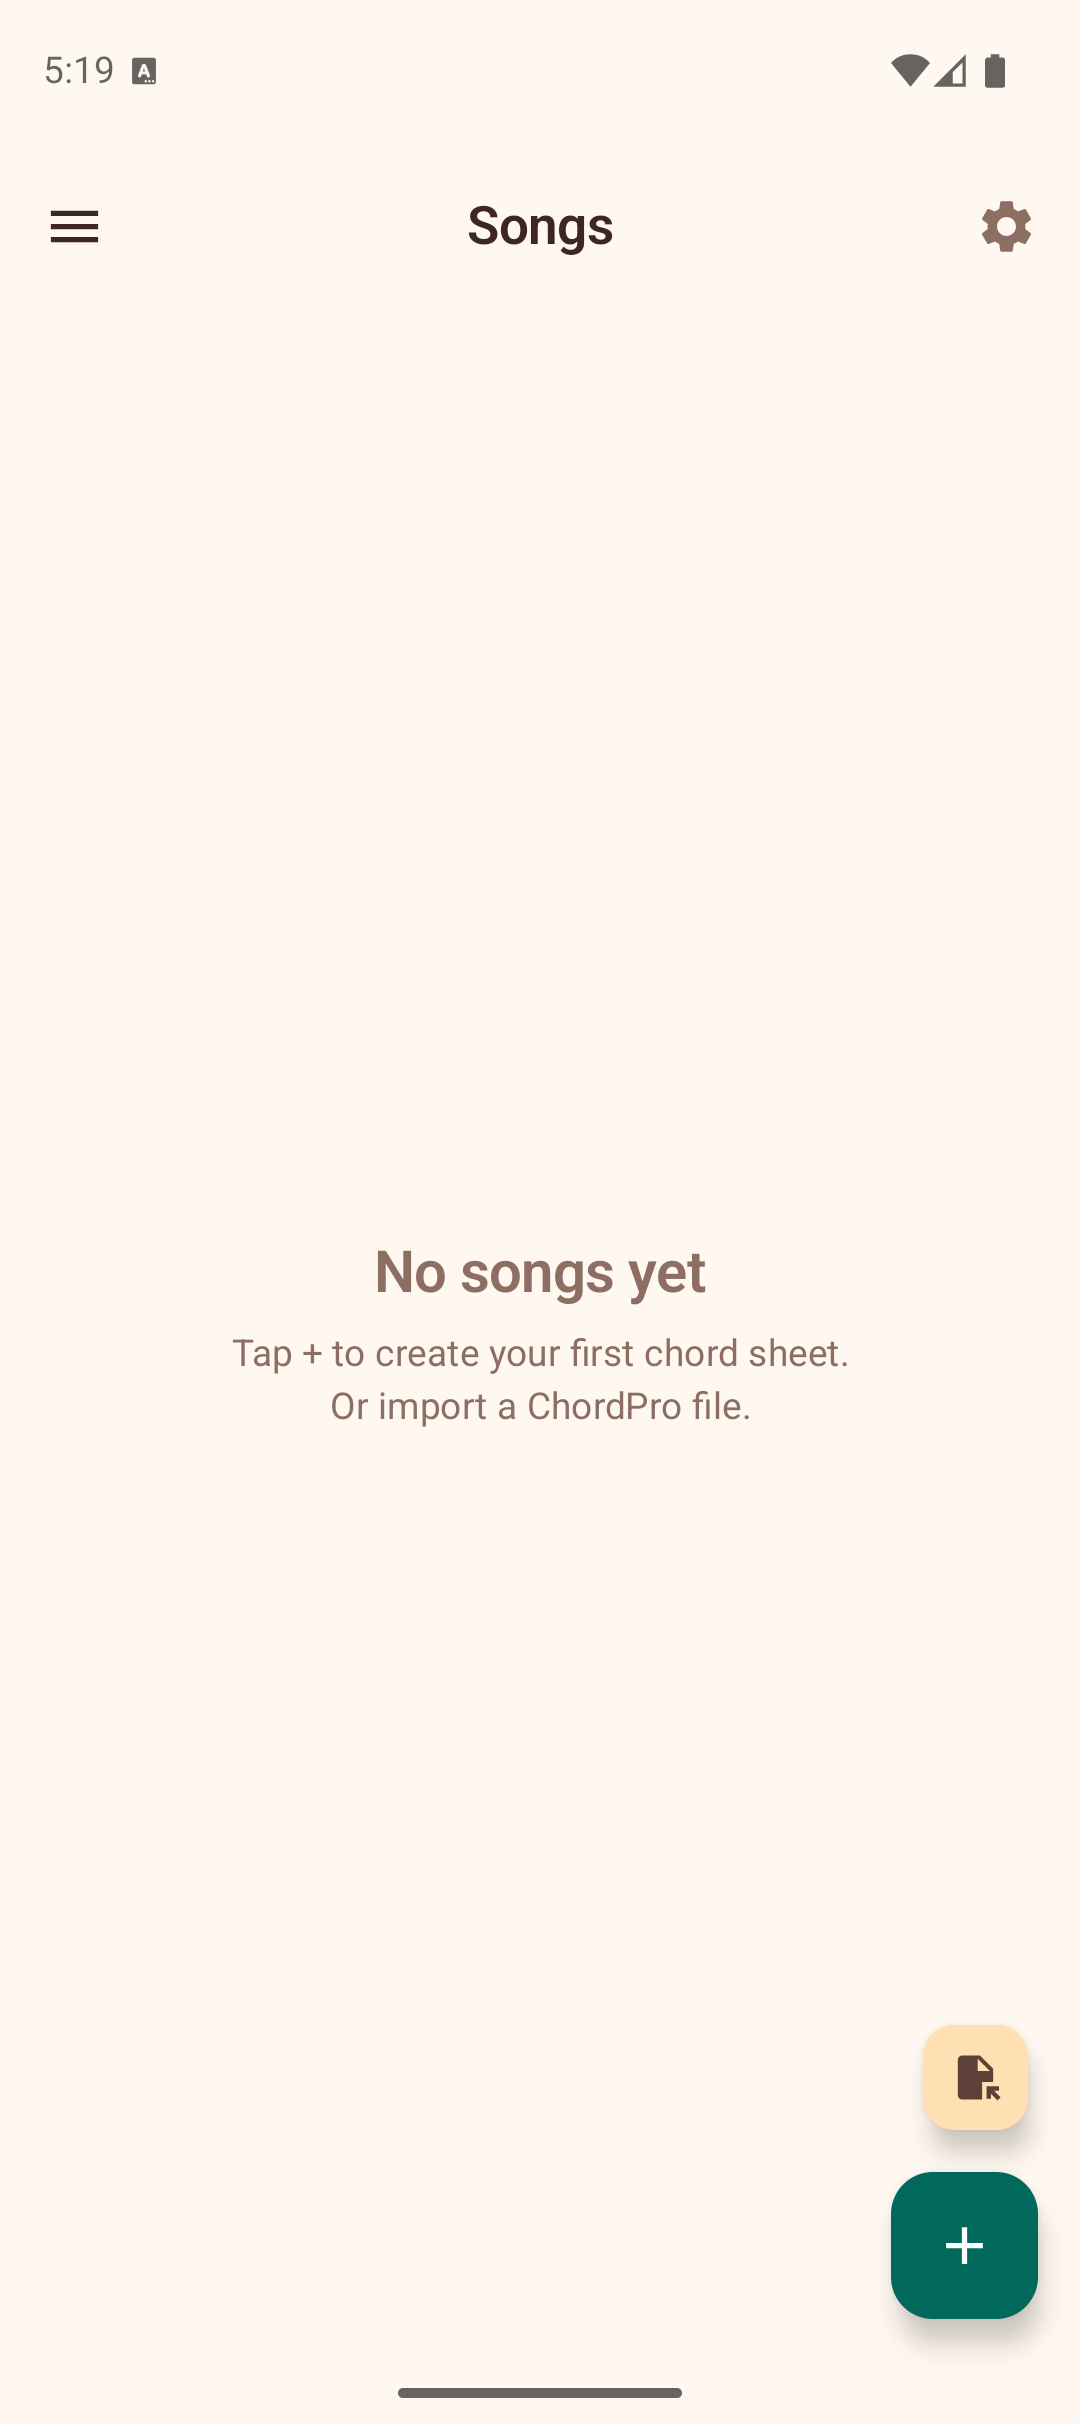
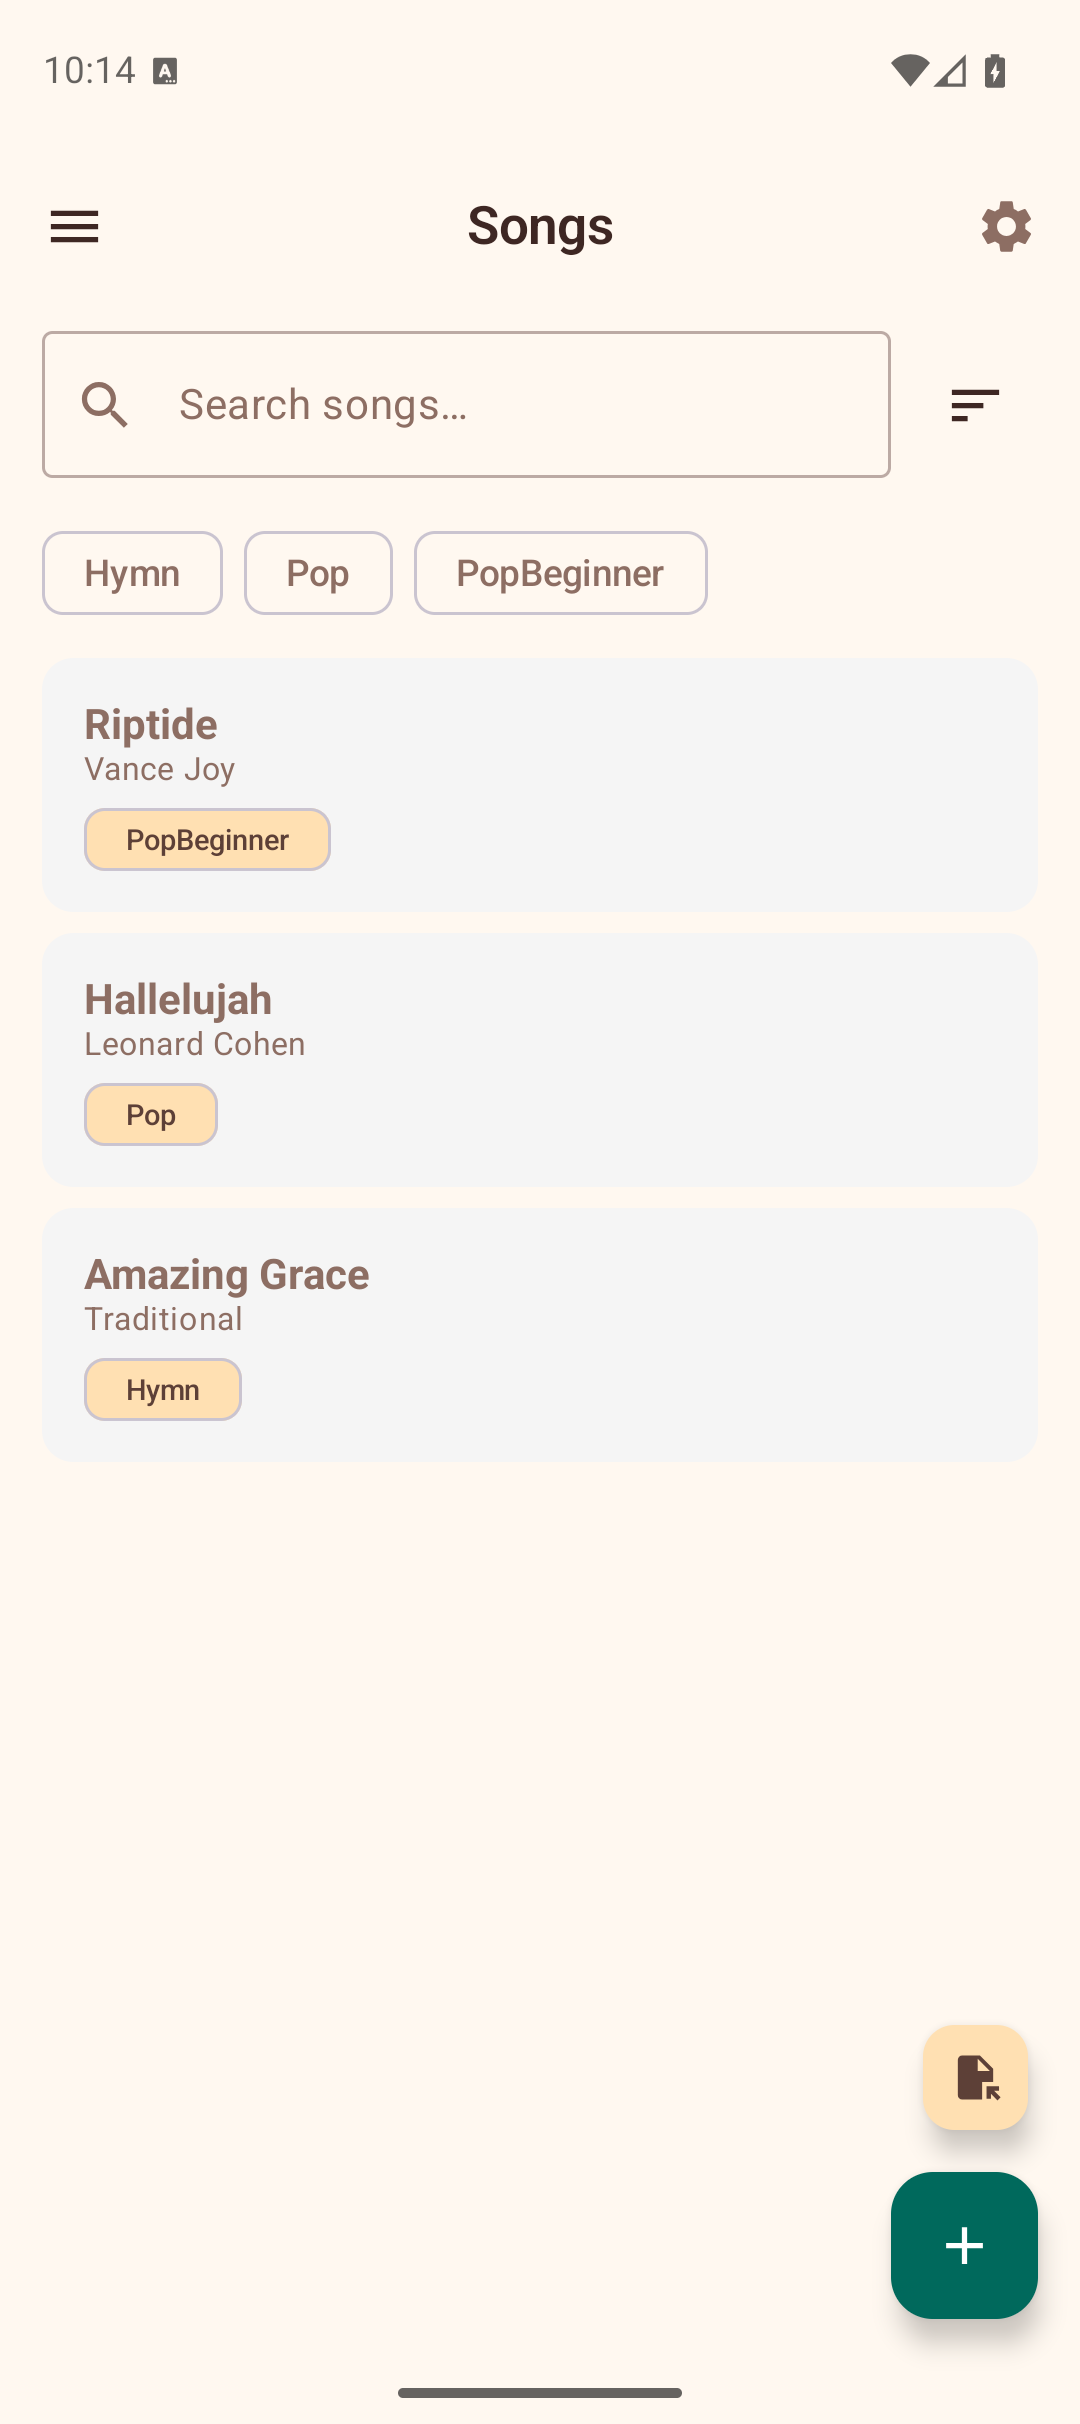
Docs: update screenshots, manuals, and video scripts for Songs, Progressions, and Patterns
- Update user manuals for Songs (labels, strum patterns, chord chips, edit/preview),
  Progressions (harmonic function labels, two-row actions, inline cards), and
  Patterns (beat count +/− controls, time signature auto-resize)
- Fix video scripts removing nonexistent "detail view" and "tap to expand" references
- Re-capture screenshots for all three features
- Add fps=30 normalization to video assembler to fix VFR screenrecord truncation
- Update README.md feature descriptions

Made-with: Cursor

diff --git a/scripts/assemble_video.py b/scripts/assemble_video.py
@@ -91,6 +91,9 @@ def merge_scene(clip: Path, audio: Path, delay_s: float, volume: float,
     vfilters: list[str] = []
     vlabel = "0:v"
 
+    vfilters.append(f"[{vlabel}]fps=30[fpsout]")
+    vlabel = "fpsout"
+
     if canvas:
         canvas_w, canvas_h = map(int, canvas.split("x"))
         color = canvas_color or "black"

diff --git a/docs/manual/07-songs.md b/docs/manual/07-songs.md
@@ -1,21 +1,41 @@
 # Songs
 
-The Songs section is your personal songbook. Create chord sheets with lyrics and inline chord markers, then use them as a reference while playing.
+The Songs section is your personal songbook. Create chord sheets with lyrics and inline chord markers, then use them as a reference while playing. Search, sort, and label your songs to keep a growing collection organised.
 
 ![Songs list](screenshots/songs.png)
+
+## Search and Sort
+
+The song list includes a **search bar** and a **sort menu** to help you find songs quickly:
+
+- **Search** — type any part of a title, artist, or content to filter the list in real time. Tap the clear button to reset.
+- **Sort** — tap the sort icon to choose an ordering: Last Modified, Date Added, Title, or Artist.
+
+## Labels
+
+Labels let you categorise songs (e.g., "Beginner", "Jazz", "Campfire") and filter the list by category.
+
+- **On song cards** — each song displays its labels as small tappable chips. Tap a label chip to filter the list to songs with that label.
+- **Label filter bar** — when labels exist, filter chips appear below the search bar. Tap a chip to toggle it; tap "Clear" to remove the filter.
+- **Adding labels** — in the song editor, the label editor section lets you type a new label or pick from existing ones with auto-suggest. Tap the **+** icon to confirm. Labels appear as removable chips you can tap to delete.
+- **In the viewer** — labels are shown below the key detection row. Tap the **+** chip to add a label without entering the editor.
 
 ## Creating a Chord Sheet
 
 1. Tap the **+ button** to create a new song.
-2. Enter a **title** for the song.
-3. In the content area, type your lyrics with chord markers using square bracket notation:
+2. Enter a **title** and optionally an **artist**.
+3. Choose a **strum pattern** to associate with the song (see below).
+4. Add **labels** to categorise the song.
+5. In the content area, type your lyrics with chord markers using square bracket notation:
 
    ```
    Some[C]where over the [Em]rainbow
    [F]Way up [C]high
    ```
 
-4. Tap **Save** to add the song to your collection.
+6. Use the **chord insertion chips** (C, G, Am, F, Em, Dm, D, A, E, Bm) above the text field to quickly insert common chords at the cursor.
+7. Switch between the **Edit** and **Preview** tabs to see how chords render above the lyrics in real time.
+8. Tap **Save** to add the song to your collection. If you try to leave with unsaved changes, a confirmation dialog appears.
 
 ## Importing Songs
 
@@ -29,13 +49,17 @@ You can import chord sheets from files on your device:
 
 ## Viewing a Chord Sheet
 
-Tap any song in the list to open it. The viewer renders your text with chords displayed inline above the lyrics in a highlighted style.
+Tap any song in the list to open it. The viewer renders your text with chords displayed on a separate line above the lyrics, aligned with each word.
 
 **Tap any chord name** in the viewer to jump directly to its voicings in the Chord Library. This makes it easy to look up unfamiliar chords while practicing a song.
 
 ### Key Detection
 
 The app automatically analyses the chords in your song and displays the **detected key** (e.g., "Key: C Major") at the top of the viewer. This uses a simplified Krumhansl–Schmuckler algorithm to determine the best-fitting key.
+
+### Strum Pattern
+
+Below the key, the viewer shows the **associated strum pattern** with its notation (e.g., "Island Strum: D DU UDU"). You can change the pattern or remove it directly from the viewer without entering the editor.
 
 ## Auto-Scroll
 
@@ -57,19 +81,25 @@ When a transposition is active, the app also displays an equivalent **capo sugge
 
 ## Exporting and Sharing
 
-The share button in the song viewer offers two options:
+The share button in the song viewer offers several options:
 
 - **Share as text** — sends the chord sheet as plain text via any messaging or sharing app.
+- **Share transposed** — shares the chord sheet with the current transposition applied (visible only when a transposition is active).
 - **Export as ChordPro** — generates a ChordPro-formatted file with proper directives (`{title:}`, `{artist:}`, section markers) for use in other chord sheet apps.
+- **Export transposed ChordPro** — exports with the transposition baked in (visible only when a transposition is active).
 
 ## Editing and Deleting
 
-- Tap the **edit button** on a song to modify its title or content.
-- Tap the **delete button** to remove a song from your collection.
+- Tap a song in the list to open the viewer, then tap the **edit button** (pencil icon) in the toolbar to modify the title, artist, strum pattern, labels, or content.
+- Tap the **delete button** (trash icon) in the toolbar to remove a song. A confirmation dialog asks you to confirm before the song is permanently deleted.
+- If you have unsaved changes in the editor and try to cancel, a **discard changes** dialog appears so you do not lose work accidentally.
 
 ## Tips
 
 - Use the `[ChordName]` bracket notation to mark chords anywhere in your lyrics.
+- Use the chord insertion chips in the editor to speed up chord entry.
+- Switch to Preview mode while editing to check chord alignment before saving.
 - Auto-scroll at 0.5x or 1x speed is good for slow ballads; try 2x or 3x for faster songs.
 - Import ChordPro files from other apps or websites to quickly build your songbook.
 - The capo suggestion makes transposition practical — you can see the easy chord shapes at a glance.
+- Label songs by genre, difficulty, or occasion to find them quickly as your collection grows.

diff --git a/docs/manual/05-progressions.md b/docs/manual/05-progressions.md
@@ -9,24 +9,33 @@ The Progressions section shows common chord progressions for any key across seve
 1. **Select a key** — choose a root note at the top.
 2. **Choose a mode** — select from Major, Minor, Dorian, Phrygian, Lydian, Mixolydian, or Locrian. Each mode generates progressions using its own set of diatonic chords.
 
-The app displays a list of common progressions for that key and mode: Pop (I-V-vi-IV), Classic Rock (I-IV-V), 50s (I-vi-IV-V), Folk, Jazz ii-V-I, Reggae, and more.
+The app displays a list of common progressions for that key and mode: Pop (I-V-vi-IV), Classic Rock (I-IV-V), 50s (I-vi-IV-V), Folk, Jazz ii-V-I, Reggae, and more. Custom progressions appear under "My Progressions" above the "Presets" section.
 
 ## Progression Cards
 
-Each progression card shows:
+Each progression card shows all of its information inline:
 
-- **Name** — the progression name (e.g., "Pop", "Jazz ii-V-I").
-- **Roman numeral degrees** — the scale degrees used (e.g., I - V - vi - IV).
-- **Chord chips** — the actual chord names in your selected key. Tap any chip to jump to its voicings in the Chord Library.
+- **Name** — the progression name (e.g., "Pop", "Jazz ii-V-I"). Custom progressions also have a delete button in the title row.
+- **Roman numeral degrees** — the scale degrees used (e.g., I – V – vi – IV).
+- **Chord chips with harmonic function** — the actual chord names in your selected key, each labelled with its harmonic function: **Tonic** (primary colour), **Subdominant** (tertiary colour), or **Dominant** (red). Tap any chip to jump to its voicings in the Chord Library.
+- **Description** — a short summary of where and how the progression is commonly used.
 
 ### Actions on Each Card
 
-- **Practice** — hear the progression played back with the current sound settings.
-- **Duplicate** — create a copy of the progression as a new custom progression with "(Copy)" appended to the name. Available on both preset and custom progressions.
+Actions are organised in two rows at the bottom of the card:
+
+**Row 1 — primary actions:**
+
+- **Play** — hear the progression played back with the current sound settings.
+- **Practice** — enter practice mode where chords advance automatically on the beat.
+- **Duplicate** — create a copy as a new custom progression with "(Copy)" appended to the name.
+- **Edit** — open the progression in the editor to rename it, add or remove chords, or change the mode. Available on custom progressions only (presets cannot be modified).
+
+**Row 2 — secondary actions:**
+
 - **Share** — export the progression as text to share with others.
 - **Capo** — view capo positions that let you play the progression using simpler chord shapes.
 - **Voice Leading** — view smooth voice-leading suggestions between the chords.
-- **Edit** — open the progression in the editor to rename it, add or remove chords, or change the mode. Available on custom progressions only (presets cannot be modified).
 
 ## BPM and Tap Tempo
 
@@ -34,15 +43,16 @@ The progression playback bar includes a BPM slider to control the playback speed
 
 ## Custom Progressions
 
-You can create your own custom progressions by tapping the **+ button**. Custom progressions can be edited, duplicated, and deleted.
+You can create your own custom progressions by tapping the **New Progression** button. Custom progressions can be edited, duplicated, and deleted.
 
 - **Edit** lets you change the name, chord sequence, or mode of an existing custom progression.
 - **Duplicate** creates a new independent copy you can modify separately.
-- **Delete** permanently removes the custom progression.
+- **Delete** (trash icon on the card title row) permanently removes the custom progression after a confirmation dialog.
 
 ## Tips
 
 - Use progressions as a starting point for songwriting or practice sessions.
+- The harmonic function labels help you understand why certain chord movements sound pleasing — Tonic feels like home, Dominant creates tension, and Subdominant provides motion.
 - Tap chord chips to quickly look up voicings you are not familiar with.
 - Try the same progression in different keys to understand how transposition works.
 - Use tap tempo when following along with a song to match its speed.

diff --git a/README.md b/README.md
@@ -39,10 +39,10 @@ Shift chords up or down by semitones with +/- buttons. Shows the capo equivalent
 The tuner now uses a hybrid pipeline: fast YIN pitch tracking on every frame, supervised by SwiftF0 neural inference at intervals. This improves robustness against octave mistakes and unstable frames while preserving responsive needle movement.
 
 ### 🥁 Strumming & Fingerpicking Patterns
-A reference guide with 15 strumming and 11 fingerpicking patterns — from beginner to advanced — in 4/4, 3/4, and 6/8 time. Each pattern includes visual beat/step display, notation, description, and a **play button with adjustable tempo** so you can hear what each pattern sounds like. Duplicate any preset to create your own variations.
+A reference guide with 15 strumming and 11 fingerpicking patterns — from beginner to advanced — in 4/4, 3/4, and 6/8 time. Each pattern includes visual beat/step display, notation, description, and a **play button with adjustable tempo** so you can hear what each pattern sounds like. Create custom patterns with adjustable beat counts (2–16) and time signatures, or duplicate any preset to make your own variations.
 
 ### 🎶 Chord Progressions
-Common chord progressions for any key across seven modes (Major, Minor, Dorian, Phrygian, Lydian, Mixolydian, Locrian). Includes Pop, Classic Rock, 50s, Folk, Jazz ii-V-I, Reggae, and more. Create custom progressions, duplicate presets, and use tap tempo for practice.
+Common chord progressions for any key across seven modes (Major, Minor, Dorian, Phrygian, Lydian, Mixolydian, Locrian). Each chord chip shows its harmonic function (Tonic, Subdominant, Dominant) with colour coding. Includes Pop, Classic Rock, 50s, Folk, Jazz ii-V-I, Reggae, and more. Create custom progressions, duplicate presets, and use tap tempo for practice.
 
 </td>
 <td width="50%" valign="top">
@@ -54,7 +54,7 @@ Highlight notes from any of 38 scales (Major, Natural/Harmonic/Melodic Minor, Pe
 Long-press any voicing in the Chord Library to save it. Access your saved voicings from the dedicated Favorites tab.
 
 ### 📝 Song Chord Sheets
-Create a personal songbook with lyrics and inline chord markers (e.g., `Some[C]where over the [Em]rainbow`). Tap any chord name to view its voicings.
+Create a personal songbook with lyrics and inline chord markers (e.g., `Some[C]where over the [Em]rainbow`). Search, sort, and label songs for easy organisation. Associate strum patterns, use quick-insert chord chips in the editor, and preview chords above lyrics in real time. Tap any chord name to view its voicings.
 
 ### 🎵 Metronome
 A standalone practice metronome with adjustable BPM (30–300), tap tempo, time signatures (2/4 to 7/4), customizable accent patterns, and subdivisions (quarter, eighth, triplet, sixteenth). Visual beat indicators pulse in time.

diff --git a/docs/manual/04-patterns.md b/docs/manual/04-patterns.md
@@ -24,10 +24,11 @@ The **Strumming** tab shows a list of preset strumming patterns, from beginner t
 Tap the **+ button** (floating action button) in the bottom-right corner to create your own strumming pattern:
 
 1. Enter a **pattern name**.
-2. Select a **time signature** (2/2, 2/4, 3/4, 4/4, 5/4, 7/4, 6/8, 7/8, 9/8, 11/8, or 12/8).
-3. Tap each **beat slot** to cycle through directions: Down, Up, Chuck, Miss, and Pause.
-4. Tap the **accent row** below to toggle emphasis on individual beats (accented beats are shown louder/bolder).
-5. Tap **Save** to add it to your custom patterns.
+2. Select a **time signature** (2/2, 2/4, 3/4, 4/4, 5/4, 7/4, 6/8, 7/8, 9/8, 11/8, or 12/8). The beat count adjusts automatically to match the selected time signature.
+3. Use the **+/−** buttons to add or remove beats (2–16). Beat slots wrap to multiple lines when the count is high.
+4. Tap each **beat slot** to cycle through directions: Down, Up, Chuck, Miss, and Pause.
+5. Tap the **accent row** below to toggle emphasis on individual beats (accented beats are shown louder/bolder).
+6. Tap **Save** to add it to your custom patterns.
 
 Your custom patterns appear in a **"My Patterns"** section at the top of the list. Custom patterns have additional actions:
 
@@ -58,8 +59,8 @@ The finger indicators use distinct colors for each finger, making it easy to fol
 Tap the **+ button** on the Fingerpicking tab to create your own pattern:
 
 1. Enter a **pattern name**.
-2. Select a **time signature** from the available options.
-3. Adjust the number of steps (2–8) with the +/− buttons.
+2. Select a **time signature** from the available options. The step count adjusts automatically to match the selected time signature (clamped to 2–8).
+3. Adjust the number of steps (2–8) with the **+/−** buttons.
 4. Tap a step to select it, then choose the **finger** and **string** from the chip rows below.
 5. Tap the **accent row** to toggle emphasis on individual steps.
 6. Tap **Save** to add it to your custom patterns.
